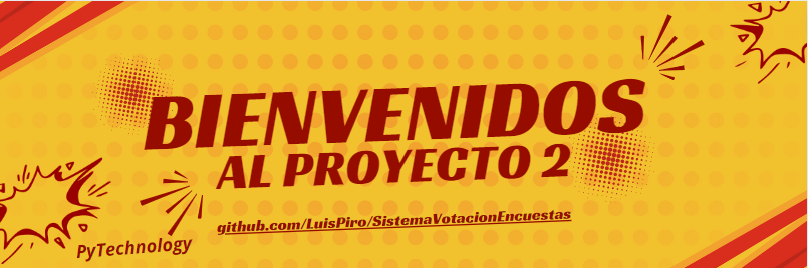
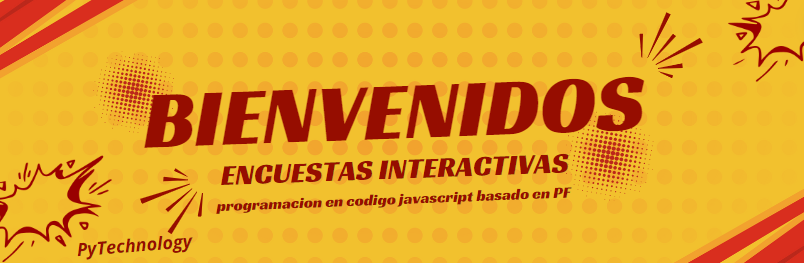
Commit final

Changed region(s): [[0.0, 0.0, 1.0, 1.0], [0.7774, 0.0608, 0.8396, 0.3042], [0.0311, 0.0913, 0.0622, 0.1217]]

diff --git a/readme.md b/readme.md
@@ -1,0 +1,7 @@
+![banner](banner.png)
+
+# Bienvenido al proyecto 2 de votacion de encuestas.
+
+## Dentro de cada carpeta encontraras el Readme respectivo de cada codigo de programacion. (POO y PF)
+
+# Gracias por utilizar PyTechnology!
